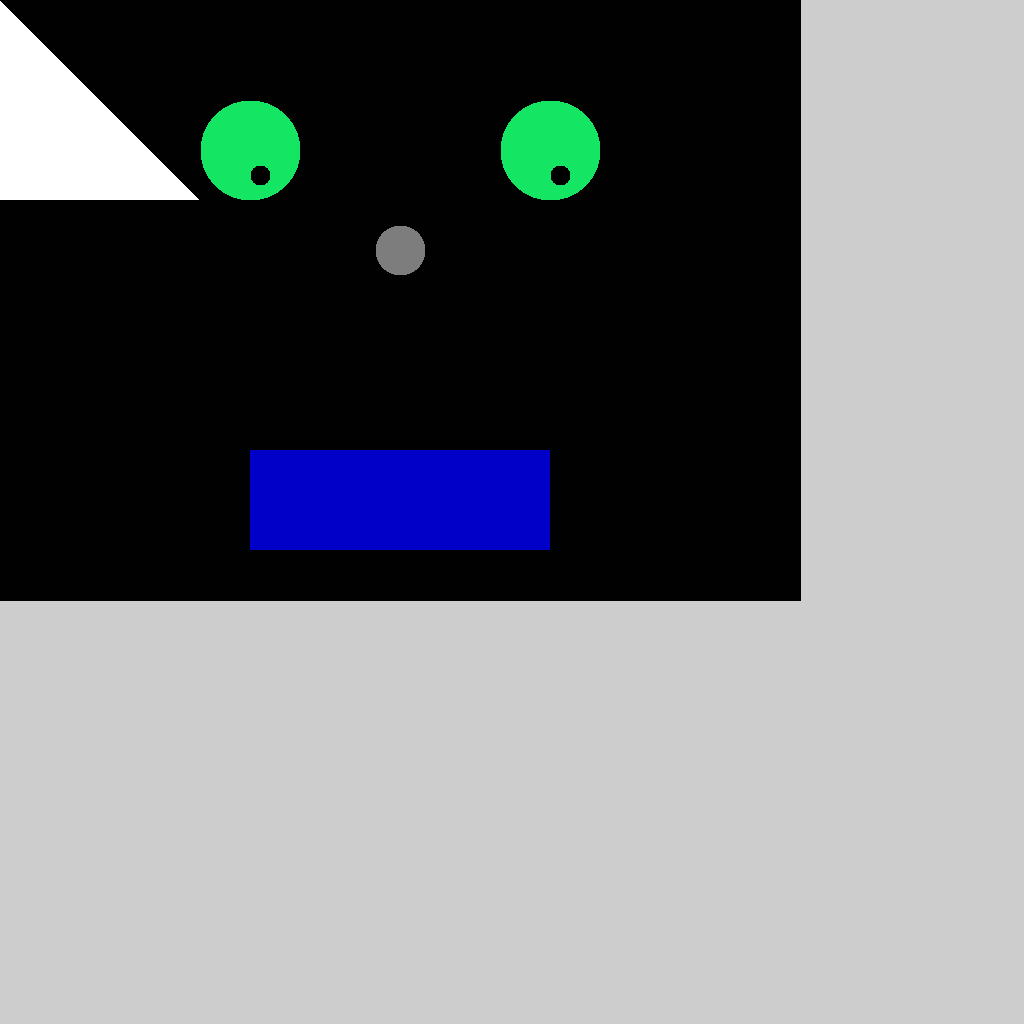
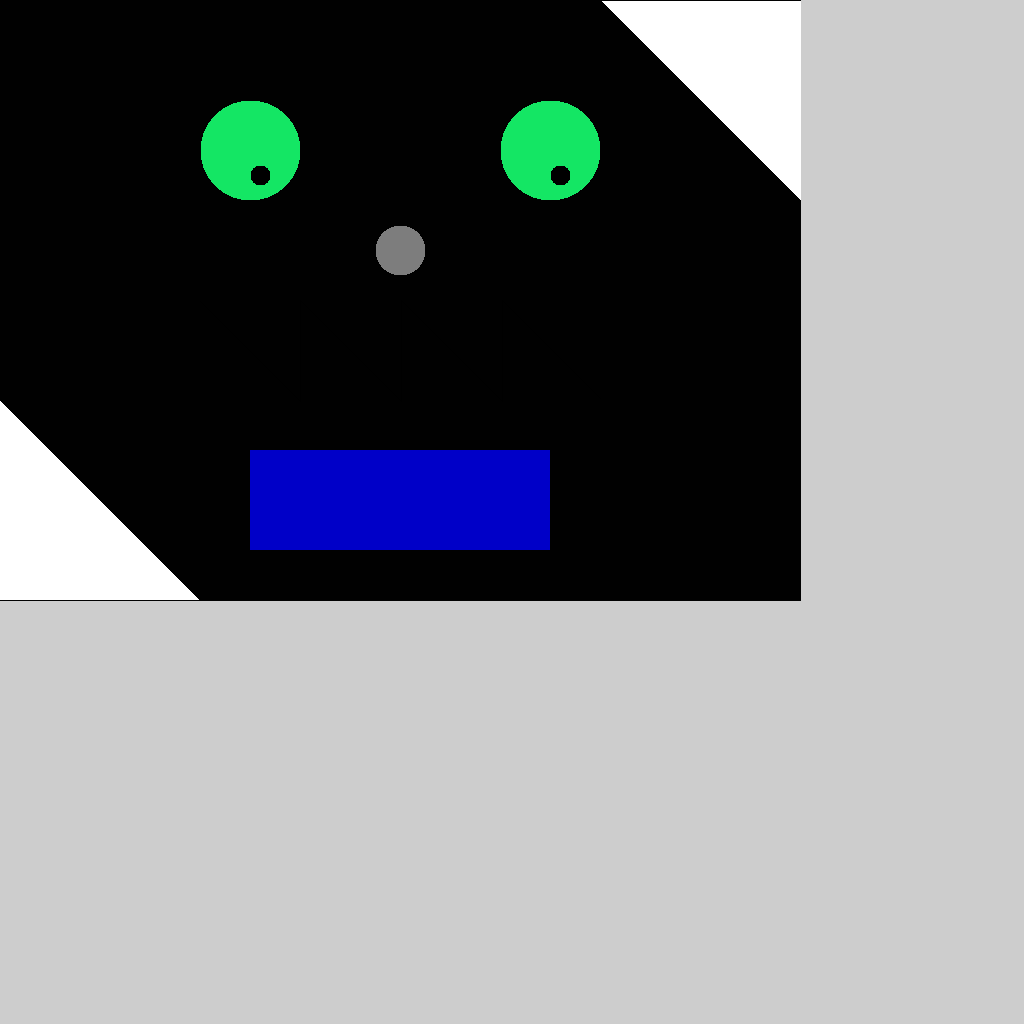
Created second triangle

Changed region(s): [[0.0, 0.375, 0.1875, 0.5938], [0.0, 0.0, 0.1875, 0.2188], [0.5938, 0.0, 0.7812, 0.1875]]

diff --git a/src/CatPictureApp.cpp b/src/CatPictureApp.cpp
@@ -97,33 +97,24 @@ void CatPictureApp::drawLine(uint8_t* pixels){
 
 void CatPictureApp::drawTriangle(uint8_t* pixels){
 	Color8u c = Color8u(255,255,255);
-	for(int y = 0; y < 200; y++){
-		for(int x = 0; x < y; x++){
+
+	//Triangle in bottom left corner
+	for(int y = 400; y < kAppHeight; y++){
+		for(int x = 0; x < (y-400); x++){
 			pixels[(3*(x + y*kTextureSize))] = c.r;
 			pixels[(3*(x + y*kTextureSize)+1)] = c.g;
 			pixels[(3*(x + y*kTextureSize)+2)] = c.b;
 		}
 	}
 
-	/*for(int y = 0; y < 200; y++){
-		for(int s = 0 - y; s > 0; s--){
-			c = Color8u(200,200,200);
-			pixels[(3*(s + y*kTextureSize))] = c.r;
-			pixels[(3*(s + y*kTextureSize)+1)] = c.g;
-			pixels[(3*(s + y*kTextureSize)+2)] = c.b;
-
-		} 
-
-		for(int x = 500; x < kAppWidth; x++){
-			k = y-(x-300);
-			if(k>=0){
-				c = Color8u(255,255,255);
-					pixels[(3*(x + y*kTextureSize))] = c.r;
-					pixels[(3*(x + y*kTextureSize)+1)] = c.g;
-					pixels[(3*(x + y*kTextureSize)+2)] = c.b;
-				}
-		}*/
-	//}
+	//Triangle in top right corner
+	for(int y = 200; y > 0; y--){
+		for(int x = 800; x > (y+600); x--){
+			pixels[(3*(x + y*kTextureSize))] = c.r;
+			pixels[(3*(x + y*kTextureSize)+1)] = c.g;
+			pixels[(3*(x + y*kTextureSize)+2)] = c.b;
+		}
+	}
 }
 
 void CatPictureApp::colorWholeSurface(uint8_t* pixels, int cG, int cB, int cR){
